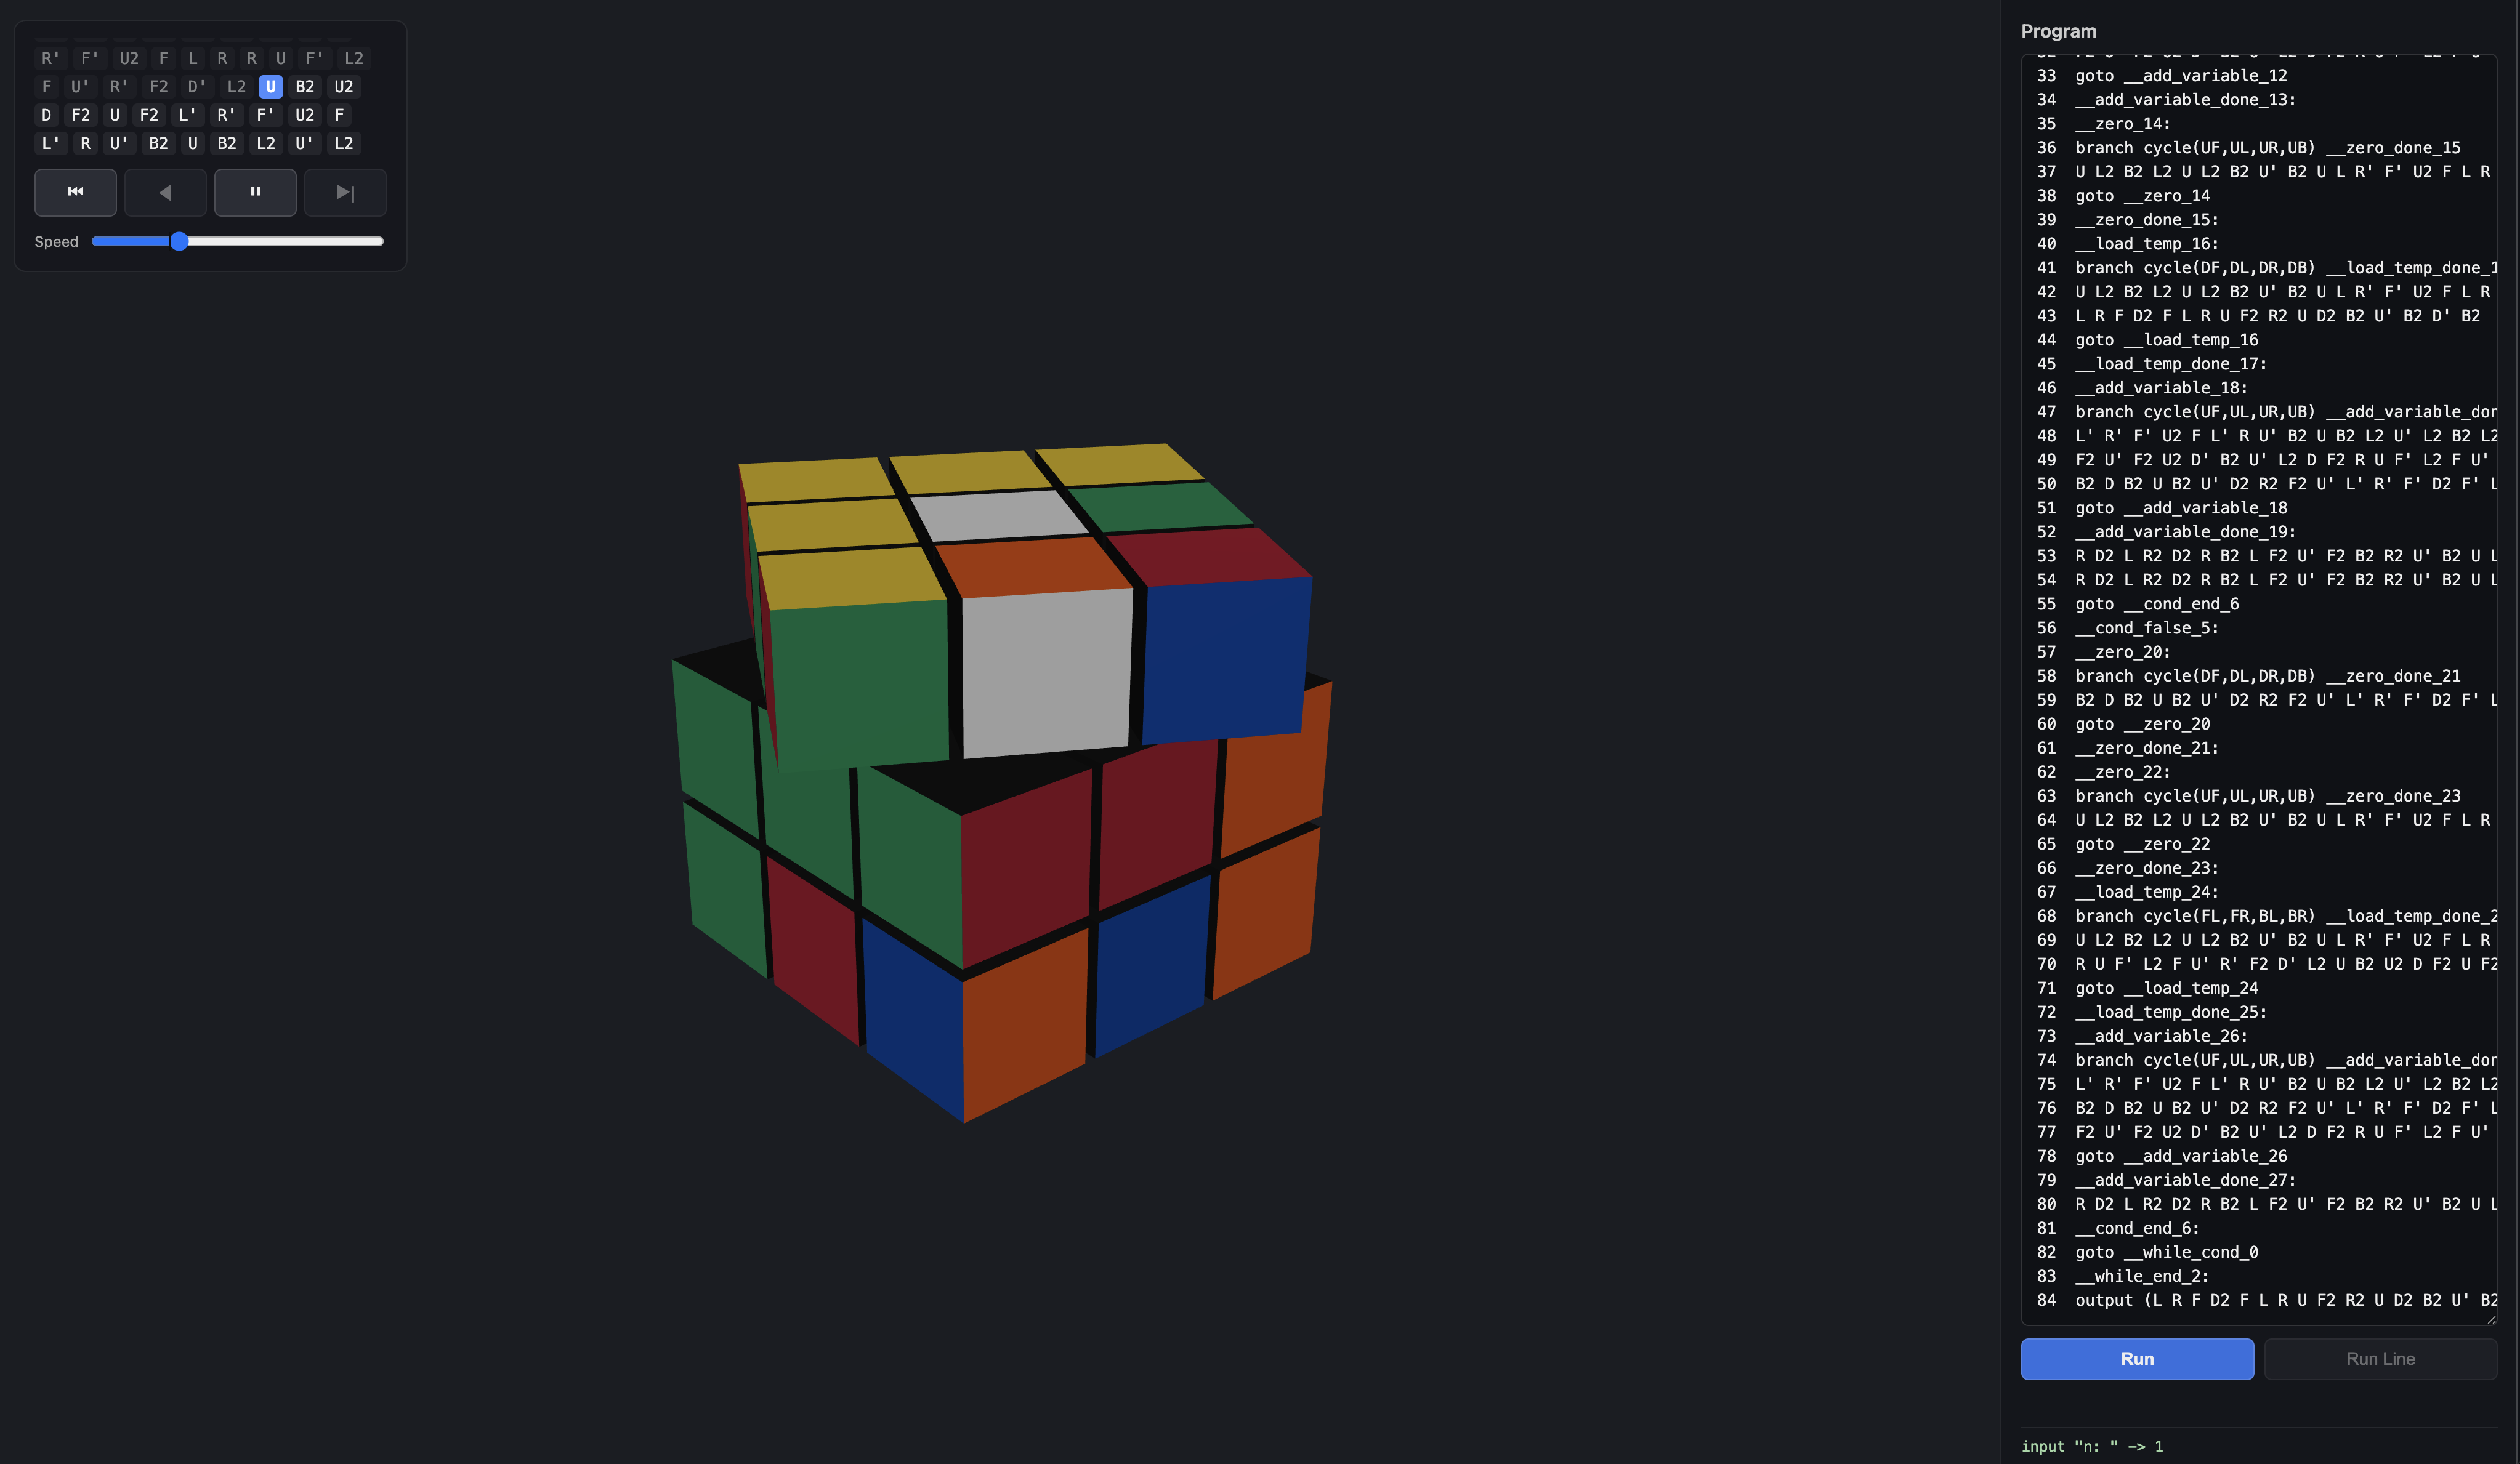
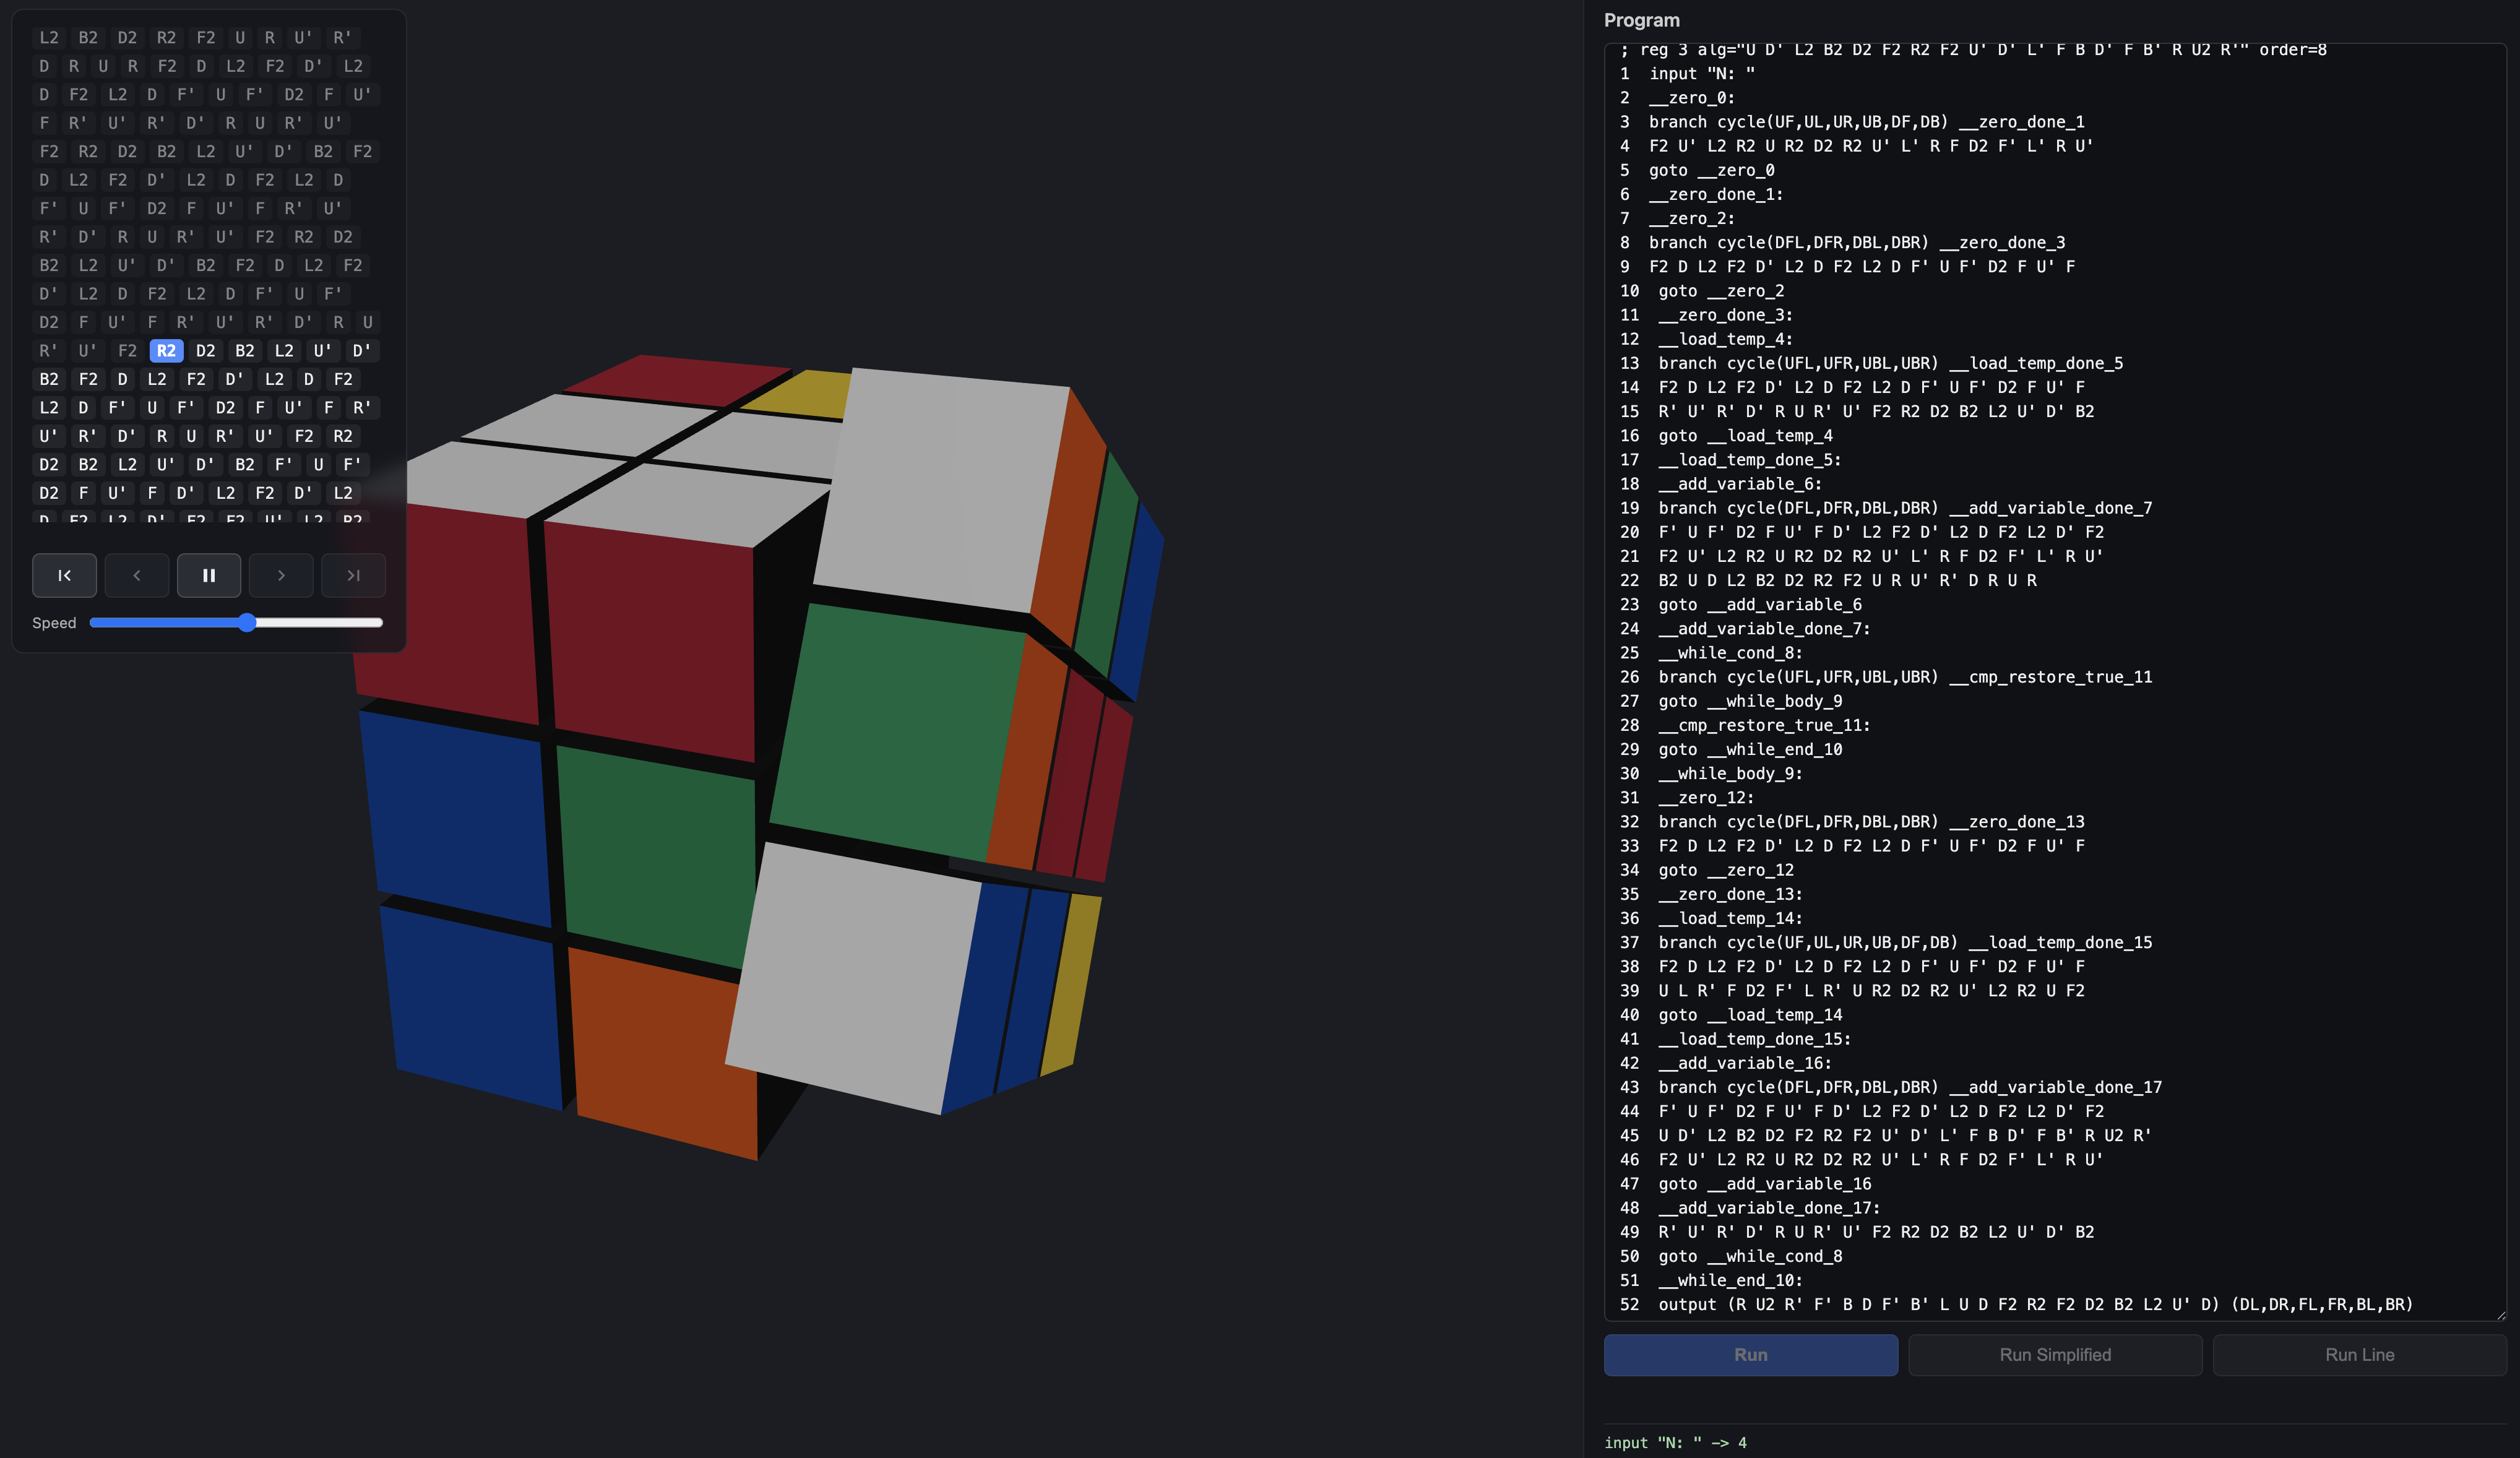
[tnb] add CuByte source mode to visualiser

diff --git a/visualiser/main.js b/visualiser/main.js
@@ -11,6 +11,8 @@ import { traceToFacelets, kociembaSimplify } from './kociemba.js';
 
 const container = document.getElementById('scene-container');
 const programInput = document.getElementById('program-input');
+const cubyteInput = document.getElementById('cubyte-input');
+const modeSelect = document.getElementById('mode-select');
 const codeView = document.getElementById('code-view');
 const runBtn = document.getElementById('run-btn');
 const runSimplifiedBtn = document.getElementById('run-simplified-btn');
@@ -84,7 +86,8 @@ let currentIndex = 0; // number of moves already applied to the cube
 let isPlaying = false;
 let isAnimating = false;
 let cancelCurrentMove = null; // cancel handle for the in-flight applyMove, if any
-let isSolving = false; // true while awaiting the kociemba server
+let isSolving = false;    // true while awaiting the kociemba server
+let isCompiling = false;  // true while awaiting the /compile endpoint
 
 // Synchronously snaps and cleans up the in-flight animation so rebuildCube()
 // can safely dispose the scene without leaving orphaned pivot children.
@@ -141,10 +144,10 @@ function updateButtonStates() {
   // Reset must stay clickable while the line emulator is active (it's the
   // only way back to editing) even though it never populates parsedMoves.
   resetBtn.disabled = !hasMoves && !lineInterpreter;
-  const busy = isSolving || isPlaying;
+  const busy = isCompiling || isSolving || isPlaying;
   runBtn.disabled = busy;
   runSimplifiedBtn.disabled = busy;
-  runLineBtn.disabled = busy || isAnimating || (lineInterpreter !== null && lineInterpreter.done);
+  runLineBtn.disabled = busy || isAnimating || modeSelect.value === 'cubyte' || (lineInterpreter !== null && lineInterpreter.done);
 }
 
 function pausePlayback() {
@@ -172,8 +175,39 @@ function showCodeView(text) {
 }
 
 function showTextarea() {
-  programInput.hidden = false;
+  const cubyte = modeSelect.value === 'cubyte';
+  programInput.hidden = cubyte;
+  cubyteInput.hidden = !cubyte;
   codeView.hidden = true;
+}
+
+// POST CuByte source to the server and return the compiled assembly text.
+// Throws with the compiler's error output if compilation fails.
+async function compileSource() {
+  const resp = await fetch('/compile', {
+    method: 'POST',
+    headers: { 'Content-Type': 'text/plain' },
+    body: cubyteInput.value,
+  });
+  if (!resp.ok) throw new Error(await resp.text());
+  return resp.text();
+}
+
+// Returns the assembly text to run: either the textarea directly (assembly
+// mode) or freshly compiled from the server (CuByte mode).
+async function getAssemblyText() {
+  if (modeSelect.value !== 'cubyte') return programInput.value;
+  isCompiling = true;
+  const prevText = runBtn.textContent;
+  runBtn.textContent = 'Compiling…';
+  updateButtonStates();
+  try {
+    return await compileSource();
+  } finally {
+    isCompiling = false;
+    runBtn.textContent = prevText;
+    updateButtonStates();
+  }
 }
 
 function highlightRow(row) {
@@ -211,7 +245,14 @@ async function runLine() {
 
   if (!lineInterpreter) {
     programError.textContent = '';
-    const init = createInterpreter(programInput.value);
+    let assemblyText;
+    try {
+      assemblyText = await getAssemblyText();
+    } catch (e) {
+      programError.textContent = e.message;
+      return;
+    }
+    const init = createInterpreter(assemblyText);
     if (init.errors.length > 0) {
       programError.textContent = init.errors.map((e) => e.message).join('\n');
       return;
@@ -228,7 +269,7 @@ async function runLine() {
     programLog.textContent = '';
 
     lineInterpreter = init.interpreter;
-    showCodeView(programInput.value);
+    showCodeView(assemblyText);
     highlightRow(lineInterpreter.currentRow);
     updateButtonStates();
     return;
@@ -264,7 +305,15 @@ async function runSimplifiedProgram() {
   abortAnimation();
   stopLineEmulator();
 
-  const result = parseAndBuildTrace(programInput.value);
+  let assemblyText;
+  try {
+    assemblyText = await getAssemblyText();
+  } catch (e) {
+    programError.textContent = e.message;
+    return;
+  }
+
+  const result = parseAndBuildTrace(assemblyText);
   if (result.errors.length > 0) {
     programError.textContent = result.errors.map((e) => e.message).join('\n');
     return;
@@ -311,12 +360,20 @@ async function runSimplifiedProgram() {
   togglePlay();
 }
 
-function runProgram() {
+async function runProgram() {
   programError.textContent = '';
   abortAnimation();
   stopLineEmulator();
 
-  const result = parseAndBuildTrace(programInput.value);
+  let assemblyText;
+  try {
+    assemblyText = await getAssemblyText();
+  } catch (e) {
+    programError.textContent = e.message;
+    return;
+  }
+
+  const result = parseAndBuildTrace(assemblyText);
   if (result.errors.length > 0) {
     programError.textContent = result.errors.map((e) => e.message).join('\n');
     return;
@@ -456,6 +513,12 @@ skipBtn.addEventListener('click', skipToEnd);
 prevBtn.addEventListener('click', stepPrev);
 resetBtn.addEventListener('click', resetCube);
 playPauseBtn.addEventListener('click', togglePlay);
+
+modeSelect.addEventListener('change', () => {
+  programError.textContent = '';
+  showTextarea();
+  updateButtonStates();
+});
 
 updateButtonStates();
 

diff --git a/visualiser/server.js b/visualiser/server.js
@@ -5,13 +5,16 @@
 
 const http = require('http');
 const fs = require('fs');
+const os = require('os');
 const path = require('path');
+const crypto = require('crypto');
 const { execFile } = require('child_process');
 
 const PORT = 3000;
 const VISUALISER_DIR = __dirname;
 const KOCIEMBA_BIN = path.join(__dirname, '../third_party/ckociemba/bin/kociemba');
 const KOCIEMBA_CACHE = path.join(__dirname, '../third_party/ckociemba/cprunetables');
+const CUBYTE_BIN = path.join(__dirname, '../cubyte');
 
 const MIME = {
   '.html': 'text/html; charset=utf-8',
@@ -25,6 +28,47 @@ const MIME = {
 
 const server = http.createServer((req, res) => {
   const url = new URL(req.url, `http://127.0.0.1:${PORT}`);
+
+  // ----- POST /compile -----
+  if (req.method === 'POST' && url.pathname === '/compile') {
+    let body = '';
+    req.on('data', (chunk) => (body += chunk));
+    req.on('end', () => {
+      const id = crypto.randomBytes(6).toString('hex');
+      const tmpBase = path.join(os.tmpdir(), `cubyte-${id}`);
+      const tmpSrc = tmpBase + '.cbyte';
+      const tmpOut = tmpBase + '.cubin';
+
+      fs.writeFile(tmpSrc, body, (writeErr) => {
+        if (writeErr) {
+          res.writeHead(500, { 'Content-Type': 'text/plain' });
+          res.end('Failed to write source file');
+          return;
+        }
+        execFile(CUBYTE_BIN, [tmpBase, tmpOut], (err, _stdout, stderr) => {
+          fs.unlink(tmpSrc, () => {});
+          fs.unlink(tmpBase + '-pp.cbyte', () => {});
+          if (err) {
+            fs.unlink(tmpOut, () => {});
+            res.writeHead(400, { 'Content-Type': 'text/plain' });
+            res.end(stderr.trim() || 'Compilation failed');
+            return;
+          }
+          fs.readFile(tmpOut, 'utf8', (readErr, data) => {
+            fs.unlink(tmpOut, () => {});
+            if (readErr) {
+              res.writeHead(500, { 'Content-Type': 'text/plain' });
+              res.end('Failed to read compiler output');
+              return;
+            }
+            res.writeHead(200, { 'Content-Type': 'text/plain; charset=utf-8' });
+            res.end(data);
+          });
+        });
+      });
+    });
+    return;
+  }
 
   // ----- POST /kociemba -----
   if (req.method === 'POST' && url.pathname === '/kociemba') {

diff --git a/visualiser/style.css b/visualiser/style.css
@@ -166,6 +166,12 @@ html, body {
   overflow-y: auto;
 }
 
+#sidebar-header {
+  display: flex;
+  align-items: center;
+  justify-content: space-between;
+}
+
 #sidebar h2 {
   margin: 0;
   font-size: 15px;
@@ -173,7 +179,22 @@ html, body {
   color: #ccc;
 }
 
-#program-input {
+#mode-select {
+  padding: 4px 8px;
+  border-radius: 6px;
+  border: 1px solid rgba(255, 255, 255, 0.15);
+  background: #2a2d36;
+  color: #eee;
+  font-size: 12px;
+  cursor: pointer;
+}
+
+#mode-select:focus {
+  outline: 2px solid #4a8cff;
+}
+
+#program-input,
+#cubyte-input {
   flex: 1 1 auto;
   min-height: 220px;
   resize: vertical;
@@ -188,11 +209,13 @@ html, body {
   white-space: pre;
 }
 
-#program-input:focus {
+#program-input:focus,
+#cubyte-input:focus {
   outline: 2px solid #4a8cff;
 }
 
-#program-input[hidden] {
+#program-input[hidden],
+#cubyte-input[hidden] {
   display: none;
 }
 

diff --git a/visualiser/index.html b/visualiser/index.html
@@ -45,7 +45,13 @@
 
     <div id="sidebar-resizer"></div>
     <div id="sidebar">
-      <h2>Program</h2>
+      <div id="sidebar-header">
+        <h2>Program</h2>
+        <select id="mode-select">
+          <option value="assembly">CuBit Assembly</option>
+          <option value="cubyte">CuByte Source</option>
+        </select>
+      </div>
       <textarea id="program-input" spellcheck="false">; reg 1 alg=&quot;R U R' U'&quot; order=6
 1  __loop_0:
 2  R U R' U'
@@ -54,6 +60,21 @@
 5  __loop_done_0:
 6  R U R' U'
 7  output (U R U' R') ()</textarea>
+      <textarea id="cubyte-input" spellcheck="false" hidden>// Compute N^2 via repeated addition.
+// Enter a value for N when prompted (0-2 for order-8 registers).
+input &quot;N: &quot;;
+
+let int : 8 n      := 0;
+let int : 8 result := 0;
+
+n := _io;
+
+while not (_io = 0) {
+    result := result + n;
+    _io    := _io - 1;
+}
+
+output result;</textarea>
       <div id="code-view" hidden></div>
       <div id="run-row">
         <button id="run-btn">Run</button>

diff --git a/README.md b/README.md
@@ -265,9 +265,14 @@ node visualiser/server.js
 
 Then open `http://localhost:3000` instead of the file directly.
 
-### Loading a program
+### Input mode
 
-Paste `.cubin` content into the **Program** text area on the right, or compile a source file and paste the result. The default program in the text area is a short working example you can run immediately.
+A selector in the top-right of the program panel switches between two modes:
+
+- **CuBit Assembly** — paste `.cubin` content directly. Works offline with no server.
+- **CuByte Source** — write or paste `.cbyte` source. Requires the local server; the visualiser compiles it on the fly when you click Run. Compiler errors appear in the error panel below the run buttons. Run Line is not available in this mode.
+
+The default content in each mode is a working example you can run immediately.
 
 ### Controls
 
@@ -275,7 +280,7 @@ Paste `.cubin` content into the **Program** text area on the right, or compile a
 |---|---|
 | **Run** | Execute the entire program and animate every move |
 | **Run Simplified** | Compute the optimal equivalent move sequence, then animate it |
-| **Run Line** | Execute one instruction and pause |
+| **Run Line** | Execute one assembly instruction and pause (CuBit Assembly mode only) |
 | **⏮ ‹ ▶ › ⏭** | Reset / previous move / play-pause / next move / skip to end |
 | **Speed slider** | Adjust animation speed |
 